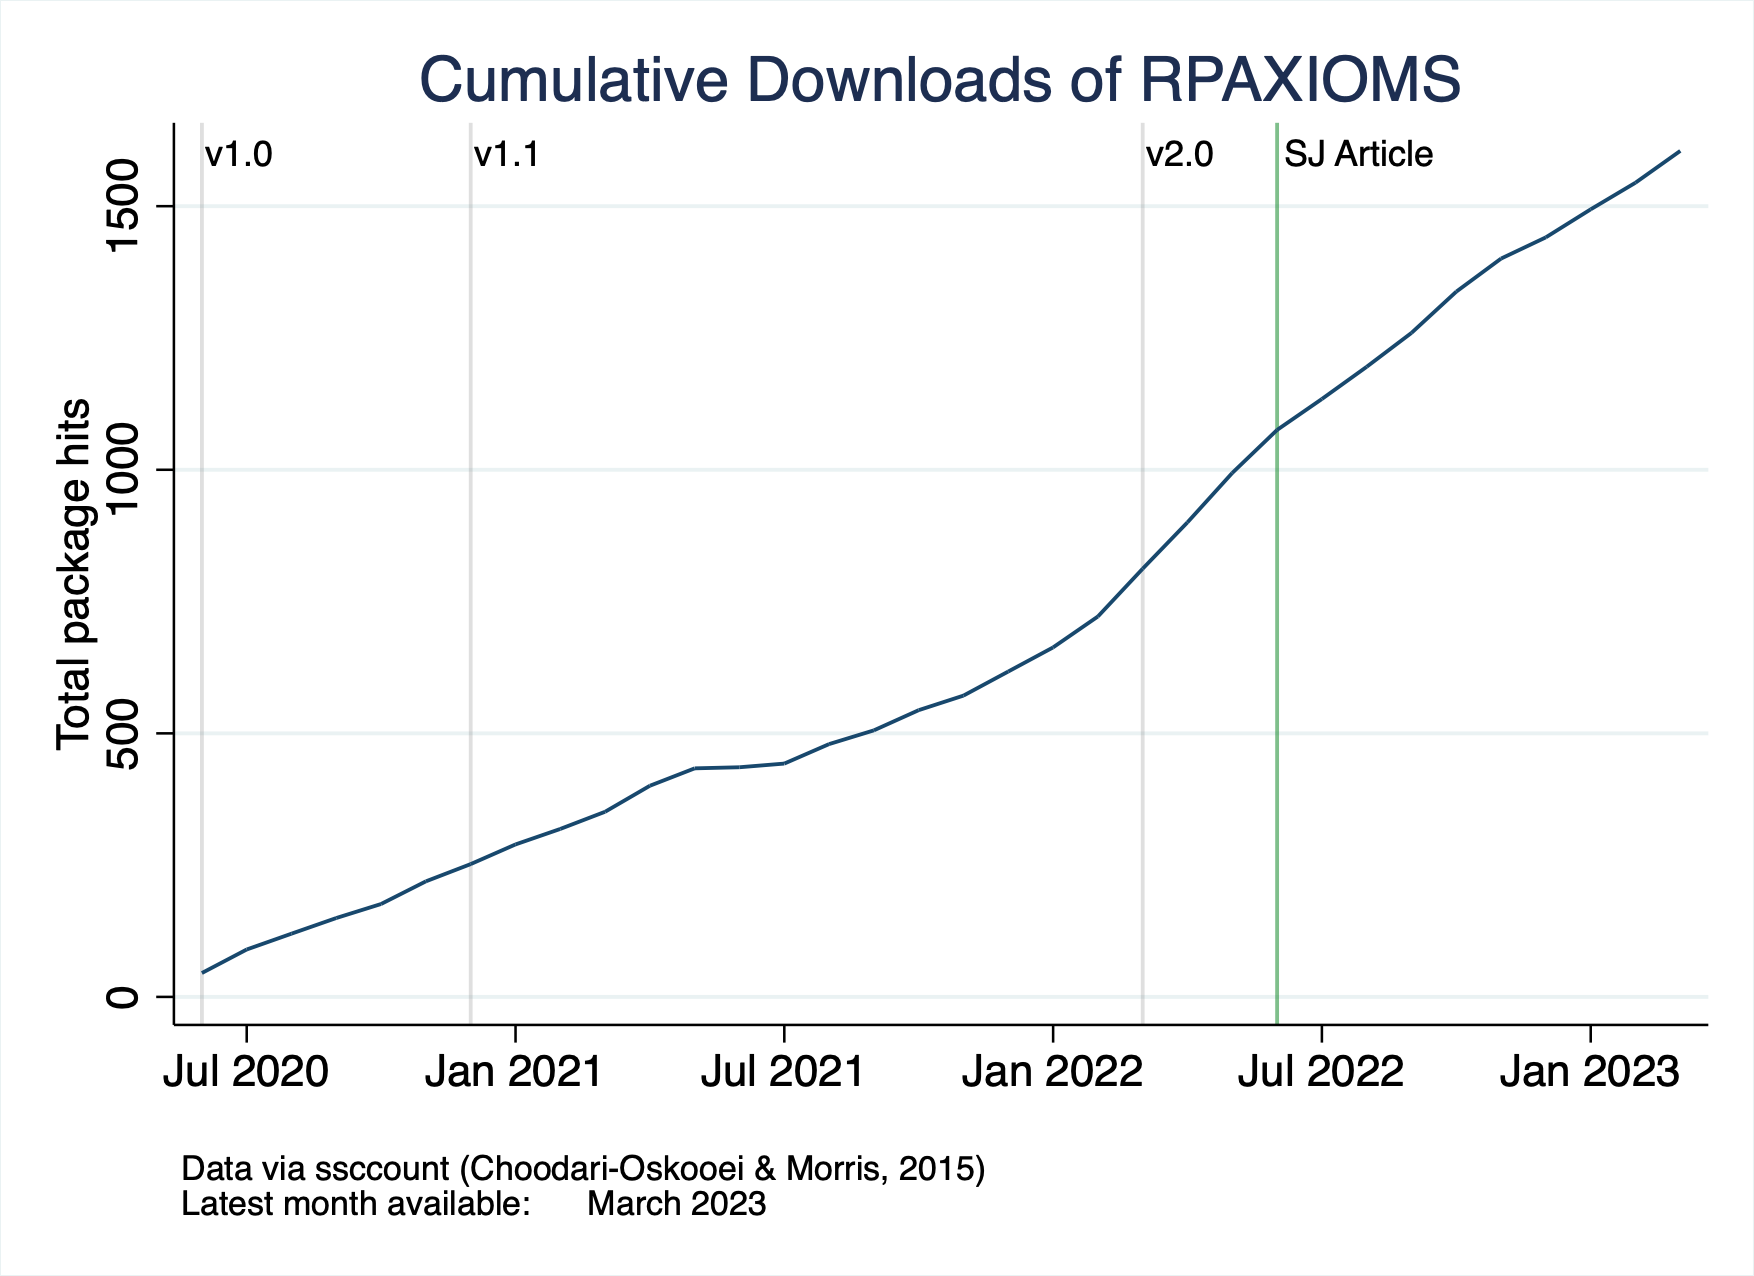
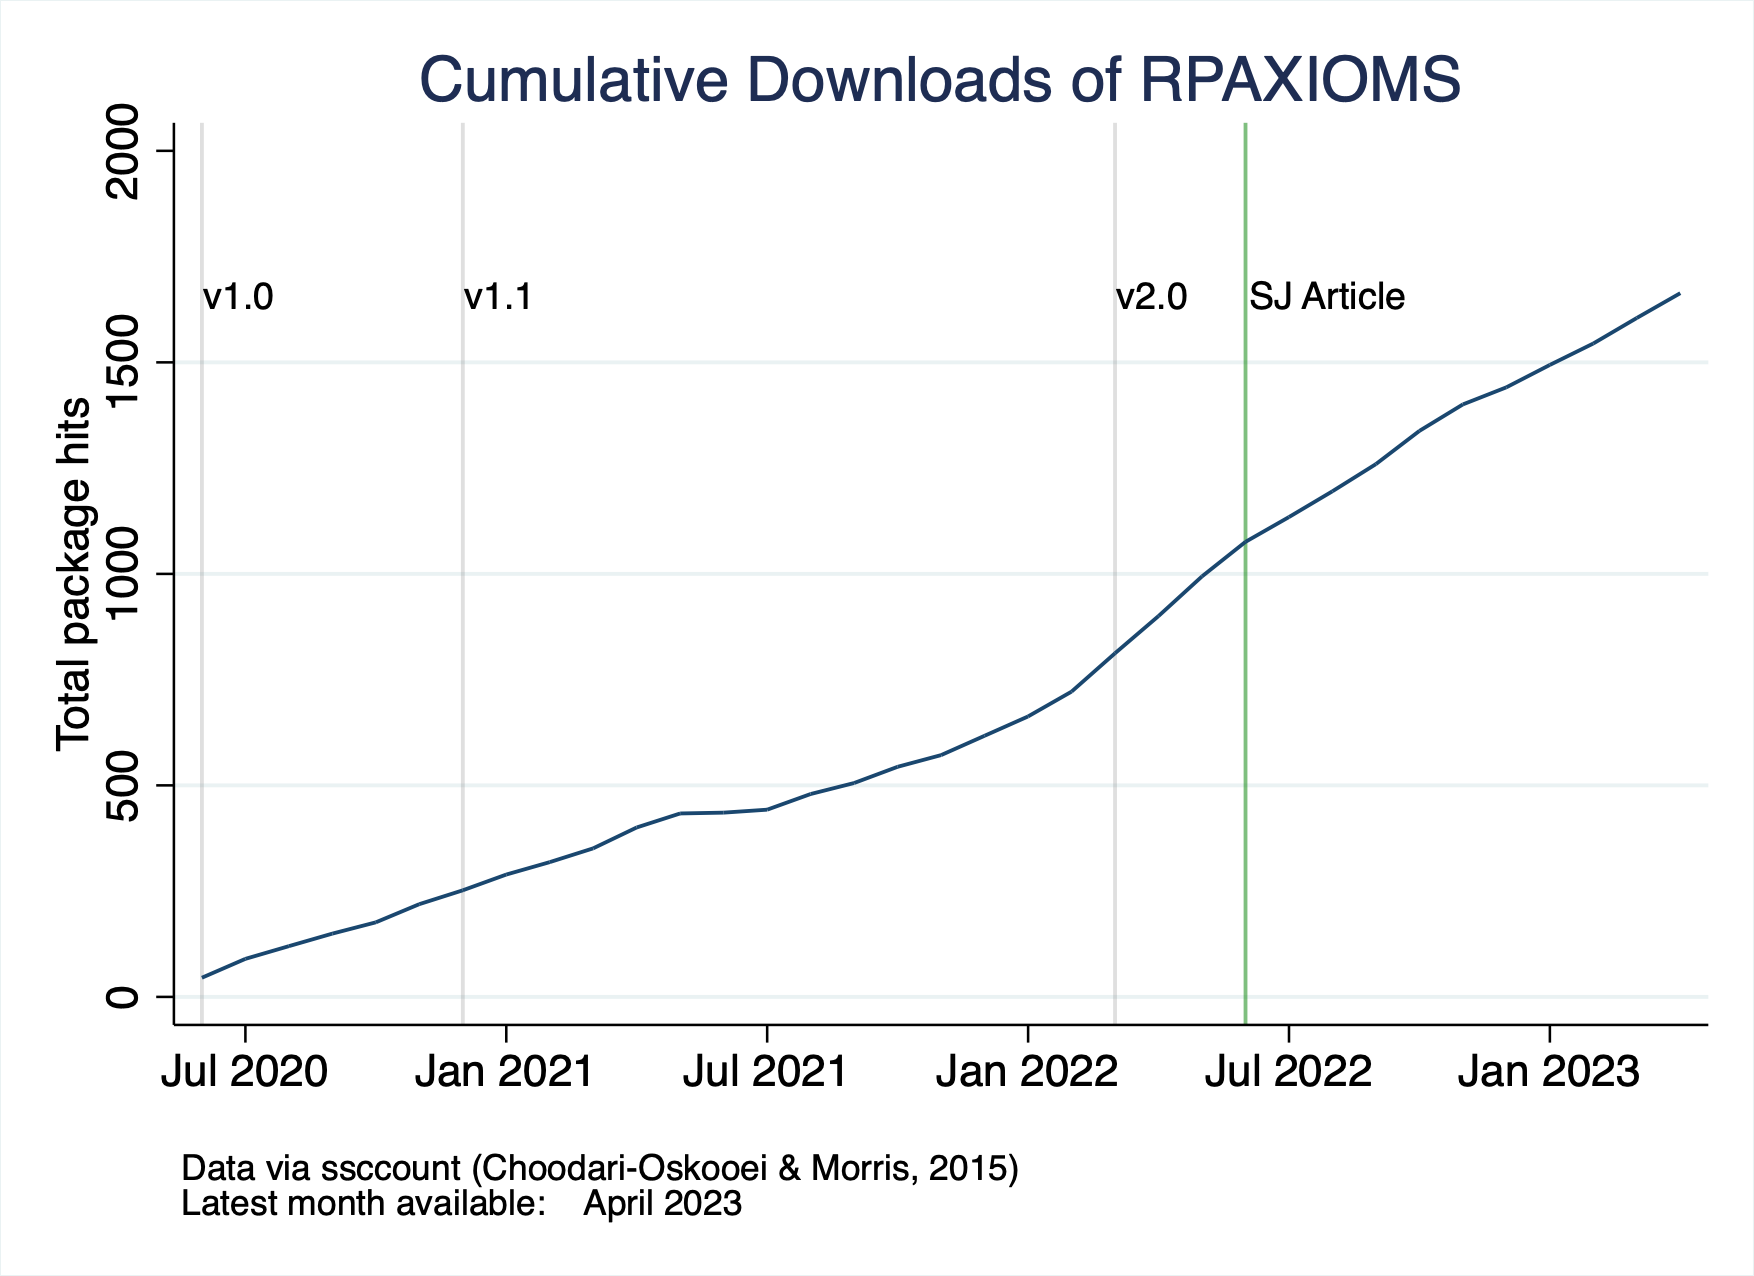
update npkghits for hmindex & rpaxioms

diff --git a/_posts/2022-12-01-hmindex.md b/_posts/2022-12-01-hmindex.md
@@ -12,6 +12,11 @@ The Houtman-Maks index is a measure of the size of a violation of utility maximi
 note introduces the _Stata_ command __hmindex__, which calculates the Houtman-Maks index for a data set of 
 prices and observed choices of a consumer. The command is illustrated with an empirical application.
 
+
+## Total downloads: 555
+<img src="/assets/img/hmindex_cumulative_hits.png" alt="number of downloads" width="100%"/>
+
+
 ## Citation
 Demetry, M. and Hjertstrand, P. [Forthcoming]. Consistent Subsets: Computing the Houtman-Maks index in Stata. <i>The Stata Journal</i>. Accepted.
 

diff --git a/_posts/2022-07-01-rpaxioms.md b/_posts/2022-07-01-rpaxioms.md
@@ -17,7 +17,7 @@ household-level aggregate consumption data.
 ## Citation
 Demetry, M., Hjertstrand, P. and Polisson, M., 2022. Testing axioms of revealed preference in Stata. <i>The Stata Journal</i>, 22(2), pp.319-343.
 
-## Total downloads: 1,605
+## Total downloads: 1,663
 <img src="/assets/img/rpaxioms_cumulative_hits.png" alt="number of downloads" width="100%"/>
 
 <details>
